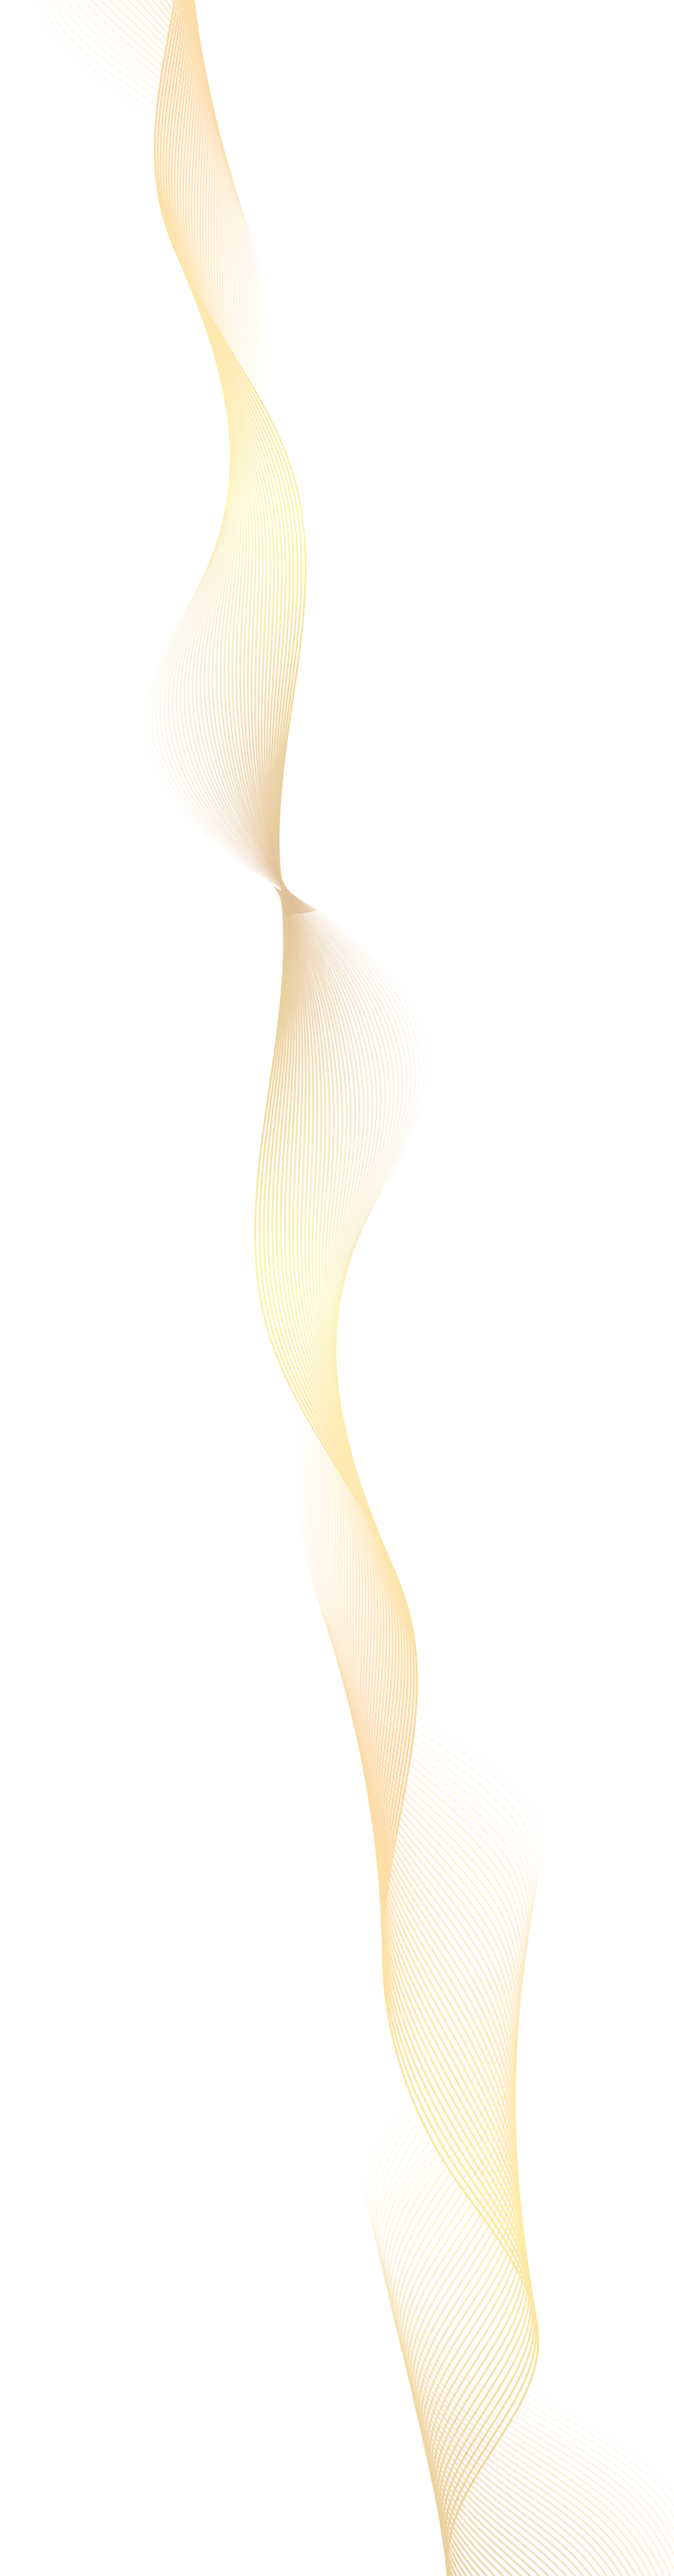
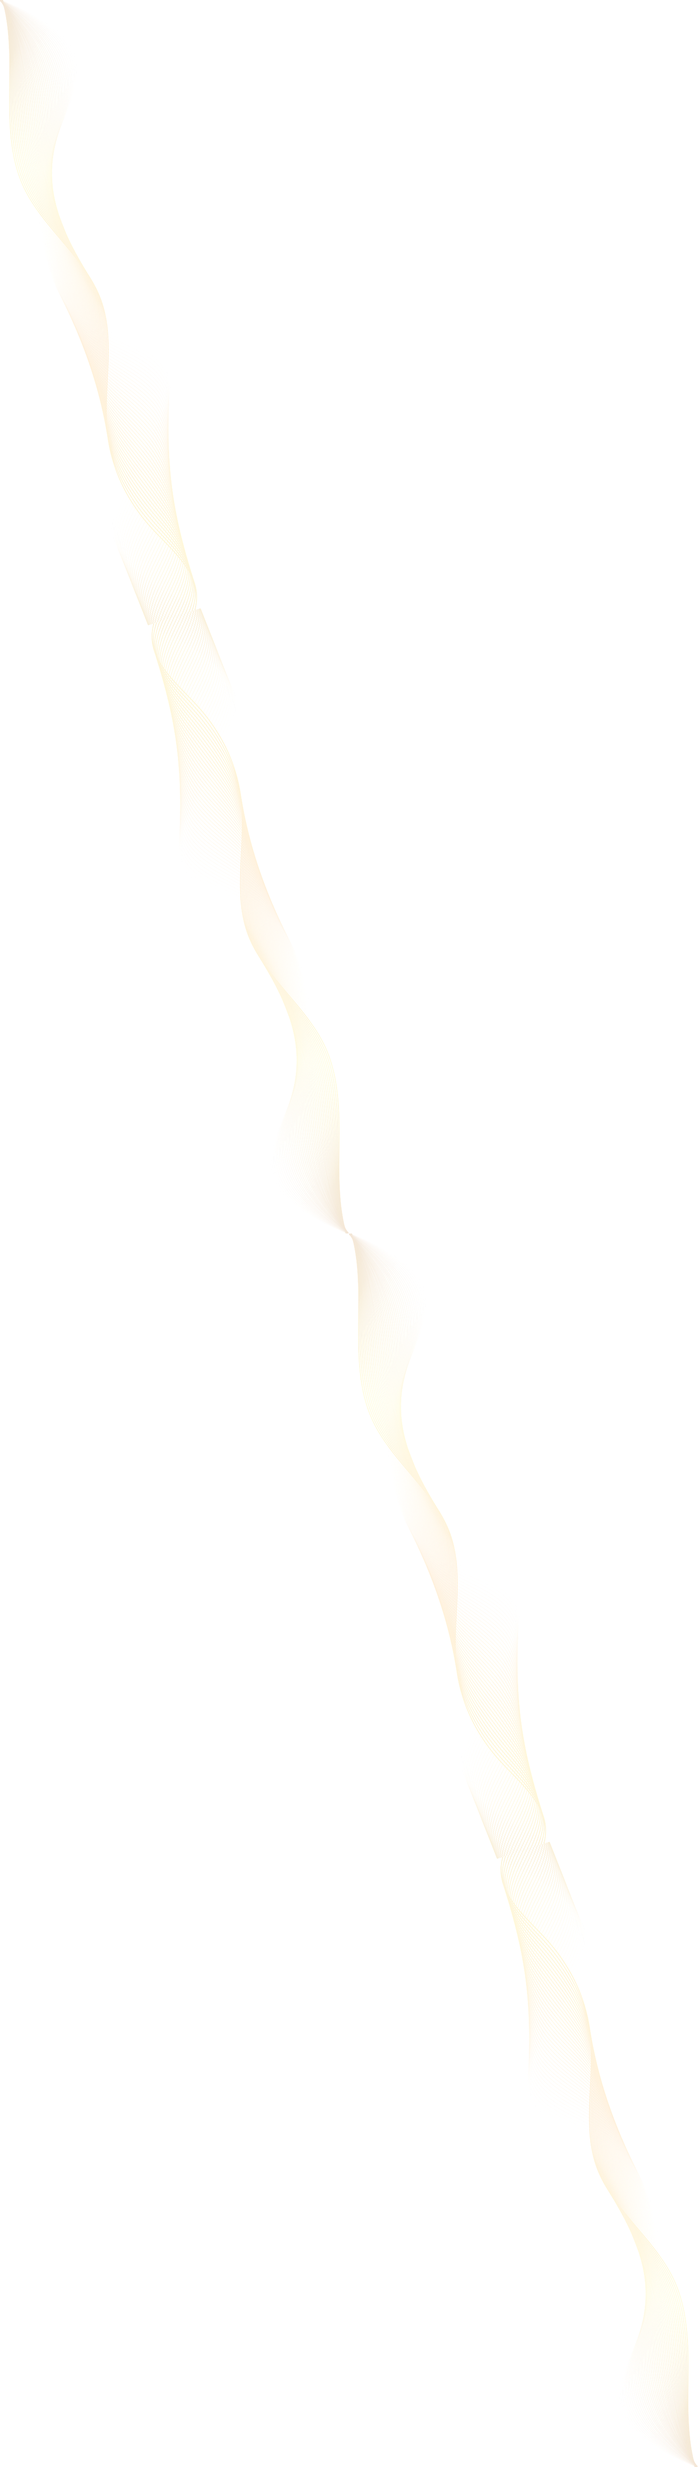
Implemented better background image and some visual improvments

diff --git a/src/pages/_app.tsx b/src/pages/_app.tsx
@@ -47,8 +47,8 @@ const App: AppType = ({ Component, pageProps }) => {
         >
           <div className="absolute w-full h-full z-[-2] bg-[#0F142D]"></div>
           <div className="absolute w-full h-full z-[-1] 
-              bg-[url('/img/bg-spiral-mobile.png')] md:bg-[url('/img/bg-spiral-desktop.png')] bg-blend-hue bg-repeat-y
-              bg-[length:100%] md:bg-[length:50vw]"></div>
+              bg-[url('/img/bg-spiral-mobile.png')] lg:bg-[url('/img/bg-spiral-desktop.png')] bg-[center_top_5rem] bg-blend-hue bg-repeat-y
+              bg-[length:100%]"></div>
           <ModalContextProvider>
             <Component  {...pageProps} />
           </ModalContextProvider>

diff --git a/src/pages/index.tsx b/src/pages/index.tsx
@@ -144,7 +144,7 @@ export default function Home() {
             t={t}
             leftSideImage={false}
             imageOverOnMobile={true}
-            imageProps={{src: "/img/foretagsrepresentant-bild.png", alt: "Picture of company representative", className: "bg-slate-300"}}
+            imageProps={{src: "/img/ddagen-massa-foretag.png", alt: "Picture of ddagen exhibition day"}}
             className={`mt-[40px] lg:mt-[70px] mb-[110px] lg:mb-[140px]
             transition-all ease-in-out
             ${ hasLoadedBefore ? 'duration-0': 'delay-[300ms] duration-[800ms]'}  

diff --git a/src/pages/logos.tsx b/src/pages/logos.tsx
@@ -222,7 +222,7 @@ export default function Logos({ exhibitorData }: LogosProps) {
           {" "}
           {t.logos.header}
         </h1>
-        <div className="bg-white py-[50px] mt-[100px] rounded-lg bg-opacity-50 px-[50px]">
+        <div className="bg-white py-[50px] mt-[100px] rounded-lg bg-opacity-30 px-[50px]">
           <div className="block sm:hidden">
             {RenderLogos(mainsponsorPackages, 1, "w-[250px]")}
             {RenderLogos(largeAndMediumPackages, 2, "w-[125px]")}
